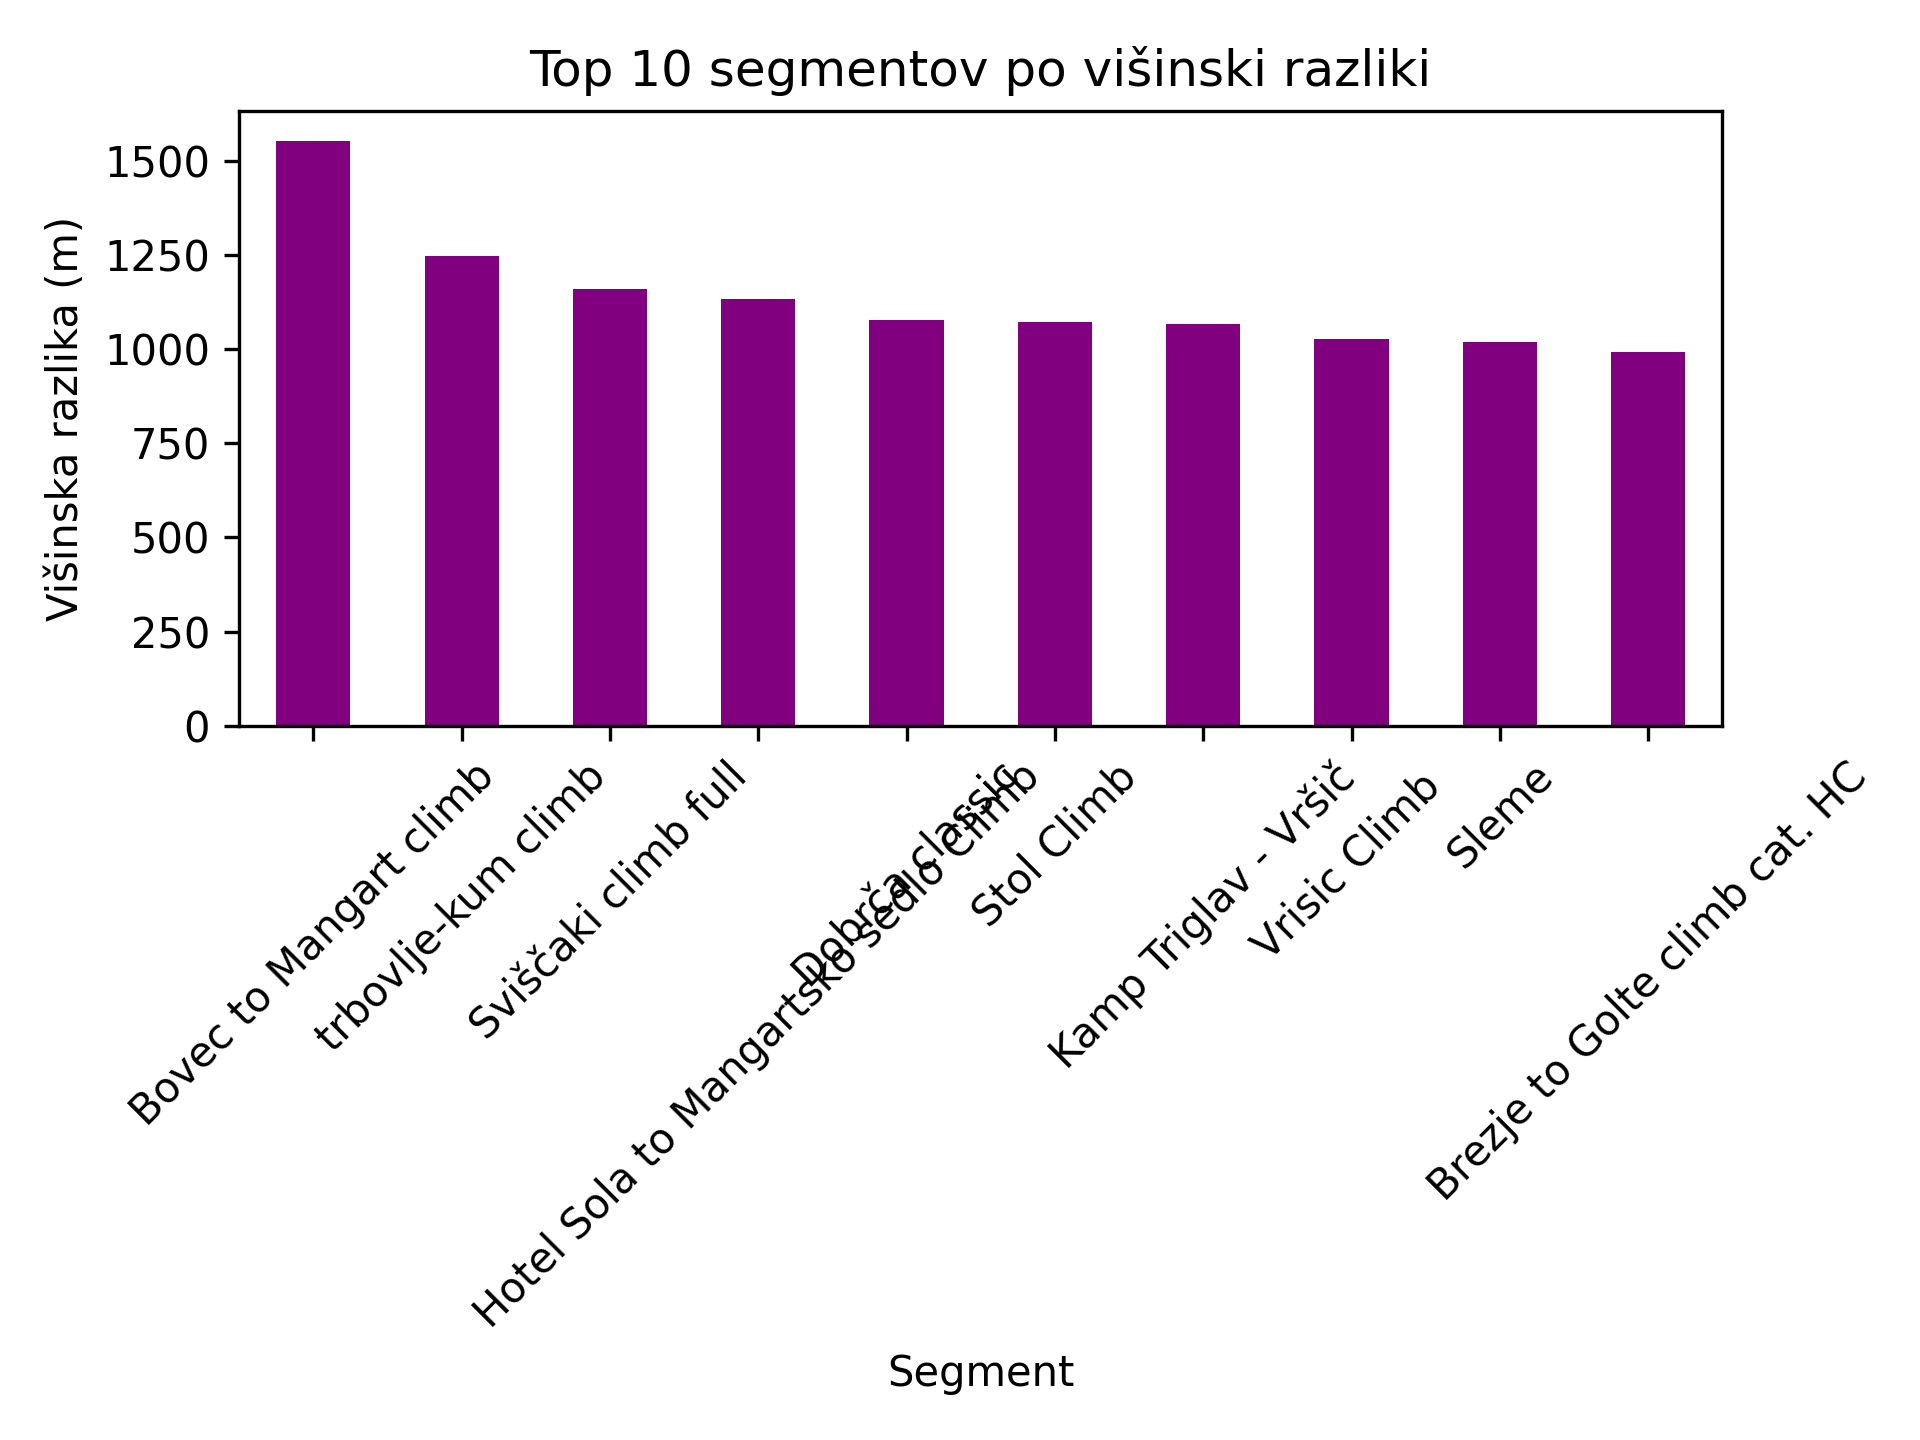
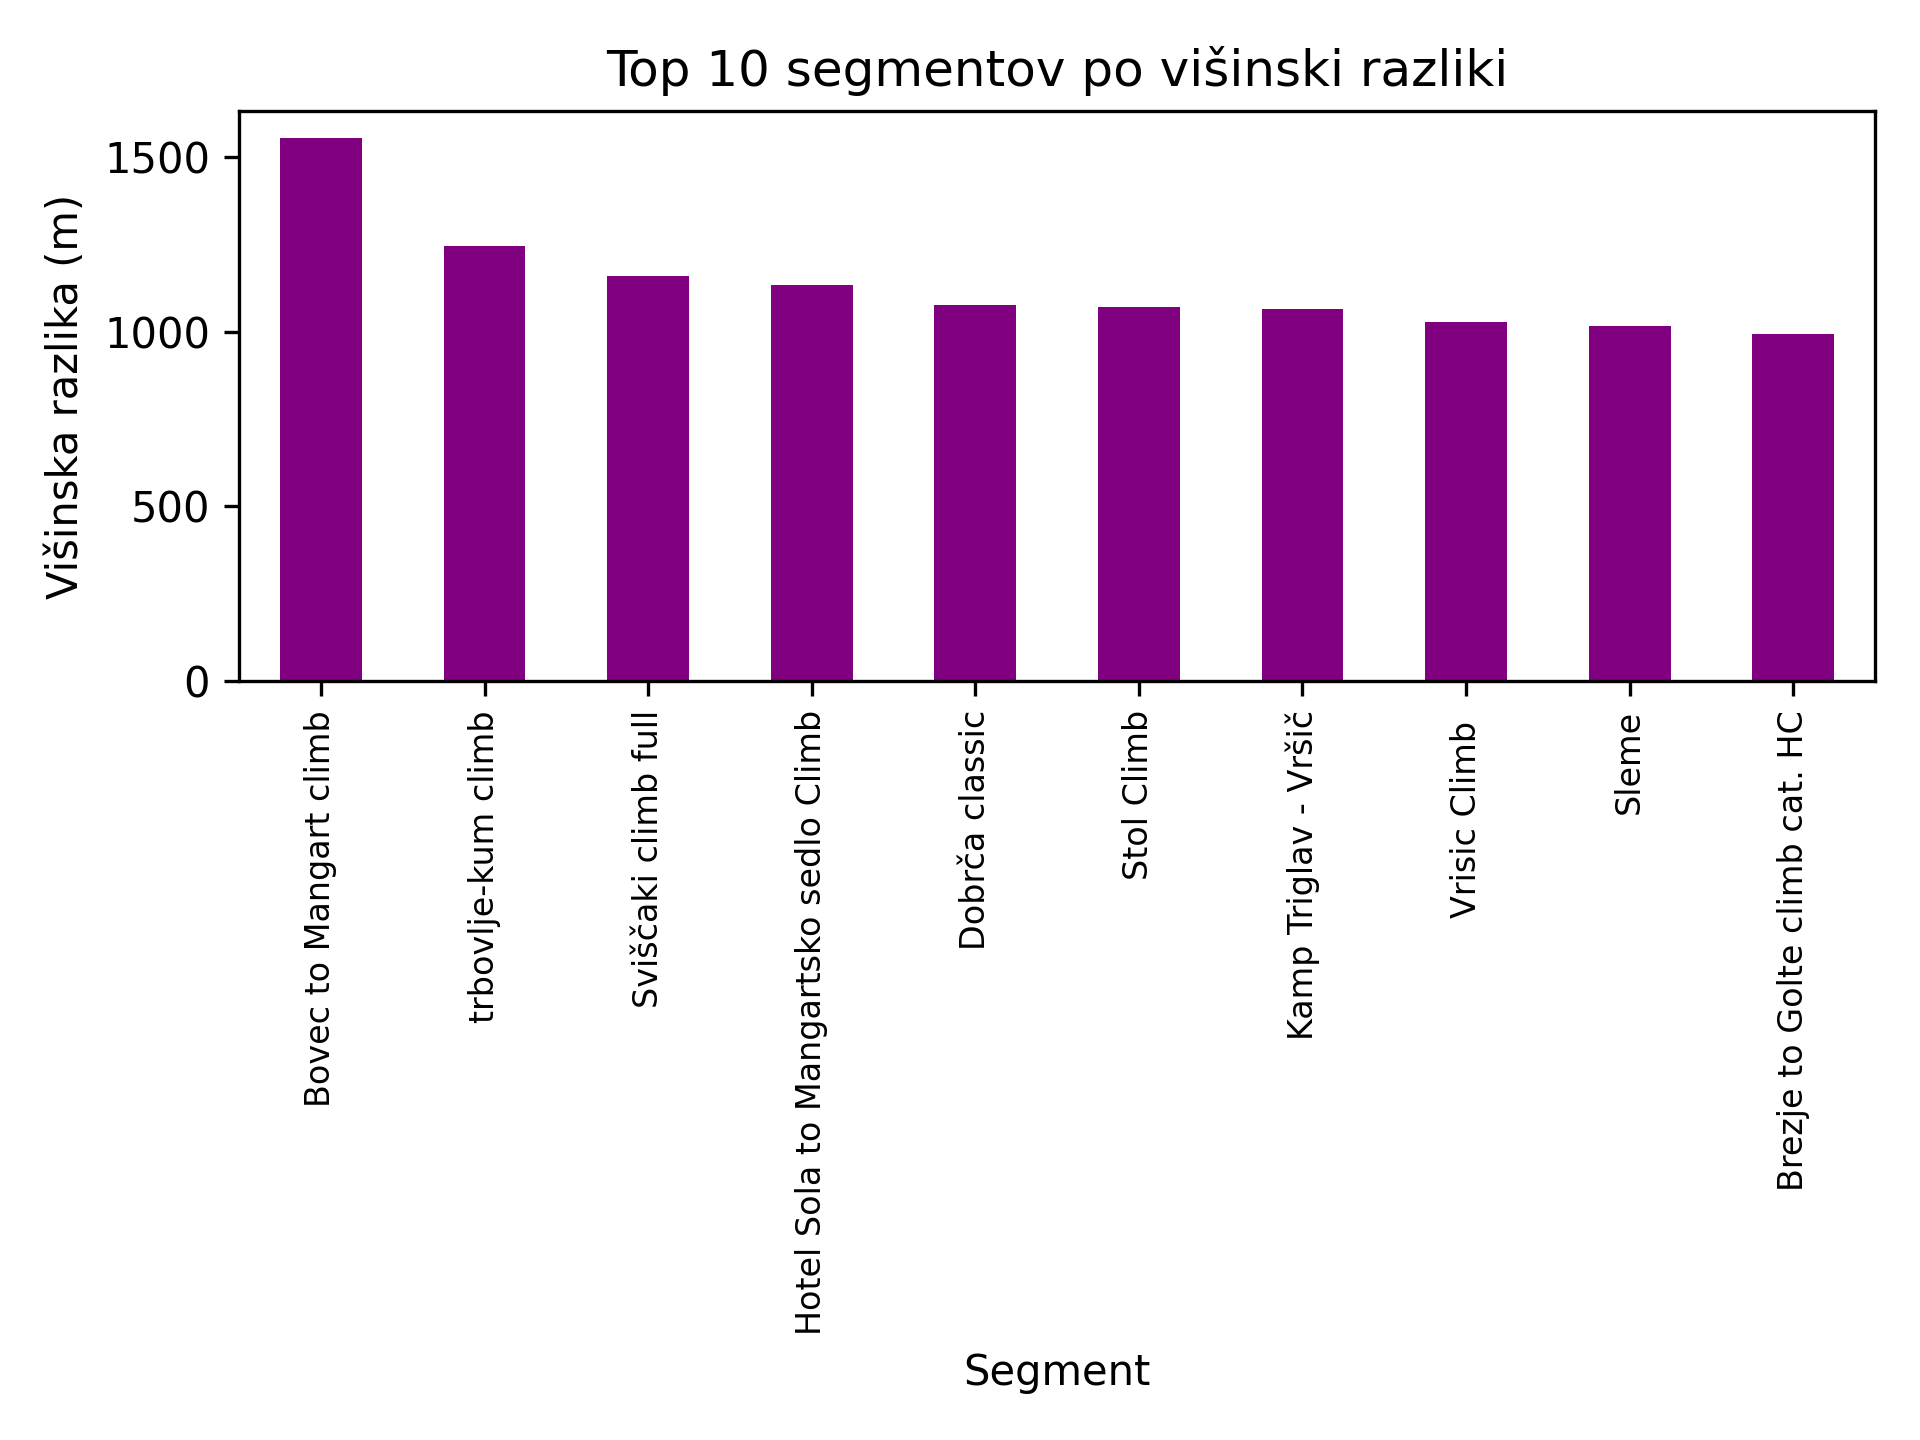
font fix

diff --git a/pregled.py b/pregled.py
@@ -92,7 +92,7 @@ top_vzponi.set_index('name').plot(kind='bar', legend=False, color='purple')
 plt.title('Top 10 segmentov po višinski razliki')
 plt.ylabel('Višinska razlika (m)')
 plt.xlabel('Segment')
-plt.xticks(rotation=45)
+plt.xticks(fontsize=8) 
 plt.tight_layout()
 plt.savefig("top10_vzponi.png", dpi=300)
 plt.show()
